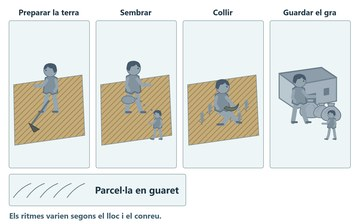
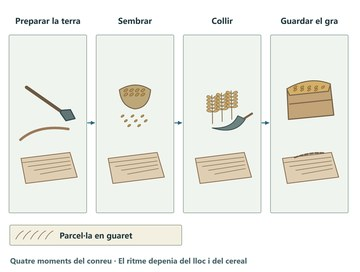
Revisa les il·lustracions M040 i M041 (v0.1.93)

diff --git a/docs/continguts/terra-i-mapes.js b/docs/continguts/terra-i-mapes.js
@@ -3038,36 +3038,57 @@ window.quaderns ??= [];
     coverFigure: 'paisatge-de-llogaret-i-moli',
     figures: [
       {
-        id: 'paisatge-de-llogaret-i-moli', section: 'conreus', name: 'Un llogaret i el seu entorn', ratio: 2280 / 1340,
+        id: 'paisatge-de-llogaret-i-moli', section: 'conreus', name: 'Un llogaret i el seu entorn', ratio: 2280 / 1640,
         width: 100, position: 'center', wrap: false, anchor: 'lead',
-        alt: 'Camins connecten les cases del llogaret amb els camps, les pastures i el molí d’aigua. Al fons hi ha una zona de bosc.',
-        caption: 'Cas esquemàtic d’un domini rural. Ressegueix com s’arriba del llogaret al camp o al molí. Què hi podria obtenir una família?',
-        credit: 'Dibuix didàctic de producció pròpia.',
         variants: {
-          pla: { src: 'illustracions/m040/paisatge-de-llogaret-i-moli-pla.png', thumbnail: 'illustracions/m040/miniatures/paisatge-de-llogaret-i-moli-pla.jpg' },
-          atles: { src: 'illustracions/m040/paisatge-de-llogaret-i-moli-atles.png', thumbnail: 'illustracions/m040/miniatures/paisatge-de-llogaret-i-moli-atles.jpg' },
+          pla: {
+            src: 'illustracions/m040/paisatge-de-llogaret-i-moli-pla.png', thumbnail: 'illustracions/m040/miniatures/paisatge-de-llogaret-i-moli-pla.jpg',
+            alt: 'Plànol amb un llogaret, un camp, pastures i bosc. En un encreuament se separen els camins cap al camp i el molí. El rec connecta el molí amb el riu.',
+            caption: 'Plànol d’un domini rural imaginari. Sortint del llogaret, en quin punt se separen els camins cap al camp i cap al molí?',
+            credit: 'Plànol propi fet a partir de la geometria que també s’utilitza a la vista elevada.',
+          },
+          atles: {
+            src: 'illustracions/m040/paisatge-de-llogaret-i-moli-atles.png', thumbnail: 'illustracions/m040/miniatures/paisatge-de-llogaret-i-moli-atles.jpg',
+            alt: 'Vista del mateix llogaret des d’un punt alt. El riu i el molí són al davant. Un rec es desvia cap al molí i l’aigua torna al riu. Més enllà hi ha el camp, les pastures i el bosc.',
+            caption: 'Vista del mateix domini rural imaginari. Segueix el rec des que se separa del riu fins que hi torna. Què permet fer l’aigua al molí?',
+            credit: 'Reconstrucció didàctica en tres dimensions. Circuit d’aigua inspirat en exemples de molins fariners hidràulics.',
+          },
         },
       },
       {
-        id: 'quatre-moments-del-cereal', section: 'produccio', name: 'Del conreu al graner', ratio: 2280 / 1420,
+        id: 'quatre-moments-del-cereal', section: 'produccio', name: 'Del conreu al graner', ratio: 2280 / 1720,
         width: 100, position: 'center', wrap: false, anchor: 'lead',
-        alt: 'Quatre vinyetes mostren treballar la terra, escampar llavors, collir i desar sacs de gra. Un requadre separat mostra una parcel·la en guaret.',
-        caption: 'Quatre moments de la feina amb el cereal. Els ritmes i les eines podien variar segons el conreu i el lloc. Una vinyeta mostra una parcel·la en guaret.',
-        credit: 'Dibuix didàctic de producció pròpia.',
         variants: {
-          pla: { src: 'illustracions/m040/quatre-moments-del-cereal-pla.png', thumbnail: 'illustracions/m040/miniatures/quatre-moments-del-cereal-pla.jpg' },
-          atles: { src: 'illustracions/m040/quatre-moments-del-cereal-atles.png', thumbnail: 'illustracions/m040/miniatures/quatre-moments-del-cereal-atles.jpg' },
+          pla: {
+            src: 'illustracions/m040/quatre-moments-del-cereal-pla.png', thumbnail: 'illustracions/m040/miniatures/quatre-moments-del-cereal-pla.jpg',
+            alt: 'Quatre passos amb les siluetes d’una aixada, un cabàs amb llavors, una falç amb espigues i una caixa de gra. Un requadre separat representa una parcel·la en guaret.',
+            caption: 'Seguiu la parcel·la i les eines en quatre moments del conreu. El guaret és un estat del camp. Els ritmes varien segons el lloc i el cereal.',
+            credit: 'Esquema didàctic de producció pròpia.',
+          },
+          atles: {
+            src: 'illustracions/m040/quatre-moments-del-cereal-atles.png', thumbnail: 'illustracions/m040/miniatures/quatre-moments-del-cereal-atles.jpg',
+            alt: 'Treball del sòl en un camp amb solcs, una mà sembrant, una falç que recull espigues i dues persones abocant gra net a la caixa d’un graner.',
+            caption: 'Reconstrucció de quatre moments del conreu. Entre collir i guardar el gra hi podia haver feines com batre i ventar. El ritme variava segons el lloc i el cereal.',
+            credit: 'Escenes didàctiques generades, amb els rètols afegits després.',
+          },
         },
       },
       {
-        id: 'renda-en-productes-diners-i-feina', section: 'dominis', name: 'Tres formes de complir una obligació', ratio: 1200 / 1120,
+        id: 'renda-en-productes-diners-i-feina', section: 'dominis', name: 'Tres formes de complir una obligació', ratio: 1200 / 1490,
         width: 50, position: 'right', wrap: true, anchor: 'after',
-        alt: 'La primera targeta mostra sacs de gra, la segona monedes i la tercera una persona que treballa el camp.',
-        caption: 'Tres exemples esquemàtics de renda. Les obligacions variaven segons el lloc i els acords.',
-        credit: 'Dibuix didàctic de producció pròpia.',
         variants: {
-          pla: { src: 'illustracions/m040/renda-en-productes-diners-i-feina-pla.png', thumbnail: 'illustracions/m040/miniatures/renda-en-productes-diners-i-feina-pla.jpg' },
-          atles: { src: 'illustracions/m040/renda-en-productes-diners-i-feina-atles.png', thumbnail: 'illustracions/m040/miniatures/renda-en-productes-diners-i-feina-atles.jpg' },
+          pla: {
+            src: 'illustracions/m040/renda-en-productes-diners-i-feina-pla.png', thumbnail: 'illustracions/m040/miniatures/renda-en-productes-diners-i-feina-pla.jpg',
+            alt: 'Tres files associen un sac de gra amb els productes, unes monedes amb els diners i una aixada amb la feina.',
+            caption: 'Tres prestacions possibles. Les obligacions variaven segons el lloc i els acords.',
+            credit: 'Esquema didàctic de producció pròpia.',
+          },
+          atles: {
+            src: 'illustracions/m040/renda-en-productes-diners-i-feina-atles.png', thumbnail: 'illustracions/m040/miniatures/renda-en-productes-diners-i-feina-atles.jpg',
+            alt: 'Tres primers plans mostren unes mans deixant gra en un recipient, un lliurament de monedes i una persona cavant amb una aixada.',
+            caption: 'Tres escenes reconstruïdes. Identifica què es lliura o què es fa en cada cas. Les obligacions variaven segons el lloc i els acords.',
+            credit: 'Primers plans didàctics generats. Les monedes són exemples gràfics.',
+          },
         },
       },
     ],
@@ -3093,12 +3114,13 @@ window.quaderns ??= [];
     collection: { id: 'medieval', title: 'L’edat mitjana' },
     theme: 'Història',
     figureStyles: [
-      { id: 'pla', label: 'Pla', description: 'Formes planes, traços nets i una paleta més gràfica.' },
-      { id: 'atles', label: 'Atles', description: 'Volum, textura i contrast de color.' },
+      { id: 'pla', label: 'Pla', description: 'Plànol de recorreguts, siluetes d’eines i registres de mostra.' },
+      { id: 'atles', label: 'Atles', description: 'Vista elevada del paisatge i primers plans de les feines i dels lliuraments.' },
     ],
     description: 'Interpreta l’organització d’un domini feudal, el treball de la pagesia i els usos de conreus i espais comuns.',
     curriculum: [{ row: 'medi:passat', section: 'dominis', note: 'Interpreta l’organització d’un domini feudal, el treball de la pagesia i els usos de conreus i espais comuns.' }],
     sources: [
+      ['Patrimoni Cultural · La mola hidràulica d’Aran', 'https://patrimoni.gencat.cat/ca/visitem-el-conjunt-de-la-mola-hidraulica-daran'],
       ['MHC · Edat mitjana', 'https://www.mhcat.cat/esmhc/consulta_la_coleccion/els_destacats_del_museu/els_destacats_del_museu/edat_mitjana'],
       ['MHC · La mar nostra', 'https://www.mhcat.cat/exposicions/la_memoria_d_un_pais/la_mar_nostra'],
     ],
@@ -3111,36 +3133,47 @@ window.quaderns ??= [];
     coverFigure: 'ports-i-fites-mediterranies',
     figures: [
       {
-        id: 'ports-i-fites-mediterranies', section: 'comerc', name: 'Ports, territoris i rutes', ratio: 2280 / 1590,
+        id: 'ports-i-fites-mediterranies', section: 'comerc', name: 'Ports, territoris i rutes', ratio: 2280 / 1555,
         width: 100, position: 'center', wrap: false, anchor: 'lead',
-        alt: 'Mapa de la Mediterrània amb punts de port, línies marítimes discontínues i cinc quadrats numerats que es relacionen amb una taula de dates.',
-        caption: 'Els traços discontinus mostren exemples de connexions marítimes. Els quadrats numerats remeten a fites polítiques de dates diferents.',
-        credit: 'Cartografia física Natural Earth i NOAA/NCEI ETOPO 2022. Fites segons el Museu d’Història de Catalunya i l’Atlas Nacional de España.',
+        alt: 'Mapa de la Mediterrània occidental i central amb sis noms de port o territori. Els cercles indiquen ports, els rombes numerats enllacen amb cinc dates i els traços discontinus són connexions marítimes.',
+        caption: 'Els traços discontinus indiquen exemples de connexions marítimes. Els rombes numerats remeten a fites de moments diferents. Busca la data d’una fita sense confondre-la amb un port o una ruta.',
+        credit: 'Costa actual de Natural Earth. Fites del Museu d’Història de Catalunya i de l’Atlas Nacional de España.',
+        src: 'illustracions/m041/ports-i-fites-mediterranies.png', thumbnail: 'illustracions/m041/miniatures/ports-i-fites-mediterranies.jpg',
+      },
+      {
+        id: 'treball-a-les-drassanes', section: 'drassanes', name: 'Una galera a les Drassanes', ratio: 2280 / 1640,
+        width: 100, position: 'center', wrap: false, anchor: 'lead',
         variants: {
-          pla: { src: 'illustracions/m041/ports-i-fites-mediterranies-pla.png', thumbnail: 'illustracions/m041/miniatures/ports-i-fites-mediterranies-pla.jpg' },
-          atles: { src: 'illustracions/m041/ports-i-fites-mediterranies-atles.png', thumbnail: 'illustracions/m041/miniatures/ports-i-fites-mediterranies-atles.jpg' },
+          pla: {
+            src: 'illustracions/m041/treball-a-les-drassanes-pla.png', thumbnail: 'illustracions/m041/miniatures/treball-a-les-drassanes-pla.jpg',
+            alt: 'Alçat llarg d’una galera sobre suports, dins una nau coberta. En una meitat hi ha taulons muntats i a l’altra queden les quadernes a la vista. Una línia indica l’eix del buc.',
+            caption: 'Alçat esquemàtic d’una galera en construcció. Compara la part recoberta de taulons amb les quadernes a la vista.',
+            credit: 'Dibuix didàctic inspirat en les Drassanes Reials. La posició de les peces és orientativa.',
+          },
+          atles: {
+            src: 'illustracions/m041/treball-a-les-drassanes-atles.png', thumbnail: 'illustracions/m041/miniatures/treball-a-les-drassanes-atles.jpg',
+            alt: 'Mirada des de dins la nau. A tocar hi ha les quadernes descobertes i el buc s’allarga fins al fons de la nau. Un artesà ajusta un tauló i un altre treballa la fusta a un cavallet.',
+            caption: 'Reconstrucció inspirada en les Drassanes Reials de Barcelona. Observa què fan els dos artesans i com treballen al mateix espai. El requadre indica la relació amb l’aigua.',
+            credit: 'Reconstrucció didàctica generada. Feines i posicions de les peces recreades a partir de referents del Museu Marítim de Barcelona.',
+          },
         },
       },
       {
-        id: 'treball-a-les-drassanes', section: 'drassanes', name: 'Una galera a les Drassanes', ratio: 2280 / 1470,
+        id: 'diposit-i-pagament-a-la-taula', section: 'taula', name: 'Deixar diners anotats i fer un pagament', ratio: 2280 / 1510,
         width: 100, position: 'center', wrap: false, anchor: 'lead',
-        alt: 'En una nau coberta amb arcs hi ha una galera de costat sobre suports, fusta i persones amb feines diferents. Un requadre situa la nau respecte de l’aigua.',
-        caption: 'Reconstrucció inspirada en les Drassanes Reials de Barcelona. Les persones, les peces i la situació respecte de l’aigua formen part de l’esquema didàctic.',
-        credit: 'Dibuix didàctic de producció pròpia.',
         variants: {
-          pla: { src: 'illustracions/m041/treball-a-les-drassanes-pla.png', thumbnail: 'illustracions/m041/miniatures/treball-a-les-drassanes-pla.jpg' },
-          atles: { src: 'illustracions/m041/treball-a-les-drassanes-atles.png', thumbnail: 'illustracions/m041/miniatures/treball-a-les-drassanes-atles.jpg' },
-        },
-      },
-      {
-        id: 'diposit-i-pagament-a-la-taula', section: 'taula', name: 'Deixar diners anotats i fer un pagament', ratio: 2280 / 1220,
-        width: 100, position: 'center', wrap: false, anchor: 'lead',
-        alt: 'Tres escenes mostren monedes dipositades, l’anotació en un llibre amb columnes i el pagament. Cada escena incorpora la mateixa marca de compte.',
-        caption: 'Seqüència didàctica de la Taula de Canvi. Una mateixa marca acompanya el dipòsit, l’anotació al llibre i el pagament posterior.',
-        credit: 'Dibuix didàctic de producció pròpia.',
-        variants: {
-          pla: { src: 'illustracions/m041/diposit-i-pagament-a-la-taula-pla.png', thumbnail: 'illustracions/m041/miniatures/diposit-i-pagament-a-la-taula-pla.jpg' },
-          atles: { src: 'illustracions/m041/diposit-i-pagament-a-la-taula-atles.png', thumbnail: 'illustracions/m041/miniatures/diposit-i-pagament-a-la-taula-atles.jpg' },
+          pla: {
+            src: 'illustracions/m041/diposit-i-pagament-a-la-taula-pla.png', thumbnail: 'illustracions/m041/miniatures/diposit-i-pagament-a-la-taula-pla.jpg',
+            alt: 'Tres vinyetes mostren monedes rebudes, un llibre de mostra amb les columnes Compte, Entrada i Sortida, i un pagament. Un rombe identifica el mateix compte en les tres vinyetes.',
+            caption: 'Segueix el Compte A des del dipòsit fins al pagament. La quadrícula fa de registre de mostra de l’entrada i la sortida.',
+            credit: 'Esquema didàctic de producció pròpia. El compte és inventat.',
+          },
+          atles: {
+            src: 'illustracions/m041/diposit-i-pagament-a-la-taula-atles.png', thumbnail: 'illustracions/m041/miniatures/diposit-i-pagament-a-la-taula-atles.jpg',
+            alt: 'Tres primers plans. Unes mans aboquen monedes d’una bossa, una persona escriu amb ploma en un llibre amb columnes i la mateixa màniga verda es veu quan fa el pagament.',
+            caption: 'Reconstrucció didàctica de la Taula de Canvi. Segueix el dipòsit, l’anotació i el pagament observant què fan les mans.',
+            credit: 'Escenes i monedes generades. El llibre és una recreació, i el Compte A és un exemple.',
+          },
         },
       },
     ],
@@ -3166,12 +3199,13 @@ window.quaderns ??= [];
     collection: { id: 'medieval', title: 'L’edat mitjana' },
     theme: 'Història',
     figureStyles: [
-      { id: 'pla', label: 'Pla', description: 'Formes planes, traços nets i una paleta més gràfica.' },
-      { id: 'atles', label: 'Atles', description: 'Volum, textura i contrast de color.' },
+      { id: 'pla', label: 'Pla', description: 'Alçat del buc i seqüència del dipòsit al pagament.' },
+      { id: 'atles', label: 'Atles', description: 'Perspectiva a peu de nau i primers plans del treball a la taula.' },
     ],
     description: 'Explica la formació i l’expansió mediterrània de la Corona d’Aragó i el paper de les Drassanes i la Taula de Canvi.',
     curriculum: [{ row: 'medi:passat', section: 'taula', note: 'Explica la formació i l’expansió mediterrània de la Corona d’Aragó i el paper de les Drassanes i la Taula de Canvi.' }],
     sources: [
+      ['Museu Marítim de Barcelona · La fusta de les galeres', 'https://www.mmb.cat/wp-content/uploads/2023/11/E26-protegit.pdf'],
       ['Museu d’Història de Catalunya · L’hegemonia catalana a la Mediterrània', 'https://www.mhcat.cat/exposicions/la_memoria_d_un_pais/la_mar_nostra/l_hegemonia_catalana_a_la_mediterrania'],
       ['IGN · Atlas Nacional de España, capítol 6', 'https://www.ign.es/web/resources/docs/IGNCnig/ANE/Capitulos/06_Referenciashistoricas.pdf'],
       ['Natural Earth · Vectors físics', 'https://www.naturalearthdata.com/downloads/10m-physical-vectors/'],

diff --git a/docs/index.html b/docs/index.html
@@ -7,17 +7,17 @@
   <title>Món a mà · Apunts i materials per explorar el medi</title>
   <link rel="icon" type="image/png" sizes="32x32" href="assets/favicon.png?v=0.1.4">
   <link rel="apple-touch-icon" href="assets/mon-a-ma.png?v=0.1.4">
-  <link rel="stylesheet" href="estils.css?v=0.1.92">
-  <script src="interficie.js?v=0.1.92" defer></script>
-  <script src="continguts/terra-i-mapes.js?v=0.1.92" defer></script>
-  <script src="continguts/variants-terra-i-mapes.js?v=0.1.92" defer></script>
-  <script src="continguts/temes-3r-cicle-2.js?v=0.1.92" defer></script>
-  <script src="imprimible.js?v=0.1.92" defer></script>
-  <script src="preferencies.js?v=0.1.92" defer></script>
-  <script src="continguts/curriculum.js?v=0.1.92" defer></script>
-  <script src="mapa-curricular.js?v=0.1.92" defer></script>
-  <script src="incidencies.js?v=0.1.92" defer></script>
-  <script src="app.js?v=0.1.92" defer></script>
+  <link rel="stylesheet" href="estils.css?v=0.1.93">
+  <script src="interficie.js?v=0.1.93" defer></script>
+  <script src="continguts/terra-i-mapes.js?v=0.1.93" defer></script>
+  <script src="continguts/variants-terra-i-mapes.js?v=0.1.93" defer></script>
+  <script src="continguts/temes-3r-cicle-2.js?v=0.1.93" defer></script>
+  <script src="imprimible.js?v=0.1.93" defer></script>
+  <script src="preferencies.js?v=0.1.93" defer></script>
+  <script src="continguts/curriculum.js?v=0.1.93" defer></script>
+  <script src="mapa-curricular.js?v=0.1.93" defer></script>
+  <script src="incidencies.js?v=0.1.93" defer></script>
+  <script src="app.js?v=0.1.93" defer></script>
 </head>
 <body>
   <a class="skip" href="#main">Ves al contingut</a>
@@ -328,7 +328,7 @@
         <button type="button" id="reset-user" title="Restableix els ajustos de totes les fitxes, les plantilles, les col·leccions i les imatges pròpies.">Restableix preferències</button>
         <span id="reset-user-status" role="status"></span>
         <a href="https://github.com/aaronFortuno/mon-a-ma/blob/main/license.md">MIT</a>
-        <button type="button" data-dialog="release" aria-haspopup="dialog" aria-label="v0.1.92 · Historial de versions">v0.1.92</button>
+        <button type="button" data-dialog="release" aria-haspopup="dialog" aria-label="v0.1.93 · Historial de versions">v0.1.93</button>
         <button type="button" data-dialog="about" aria-haspopup="dialog" aria-label="V4V · Sobre el projecte">V4V</button>
       </nav>
     </div>
@@ -339,6 +339,11 @@
       <form method="dialog"><button type="submit" class="icon-button" aria-label="Tanca" autofocus><svg viewBox="0 0 24 24" aria-hidden="true"><path d="m6 6 12 12M18 6 6 18"/></svg></button></form>
     </div>
     <div class="dialog-content">
+      <h3>v0.1.93</h3>
+      <ul>
+        <li>Revisa les il·lustracions de l’M040 amb un mateix llogaret en planta i en vista elevada, quatre feines del cereal i tres formes de renda.</li>
+        <li>Revisa les il·lustracions de l’M041 amb un mapa compartit, una vista de treball a les Drassanes i una seqüència de la Taula de Canvi.</li>
+      </ul>
       <h3>v0.1.92</h3>
       <ul><li>Renova els plànols de l’M003 amb un Pla i una vista obliqua del mateix barri, i manté un únic plànol exacte per a l’activitat d’escala.</li></ul>
       <h3>v0.1.91</h3>

diff --git a/docs/app.js b/docs/app.js
@@ -186,7 +186,7 @@
       const firstFigure = figures.find(figure => figure.id === chapter.coverFigure) ??
         figures.find(figure => figure.section === chapter.sections[0]?.id);
       const variant = firstFigure && figureVariants(topic, firstFigure).findLast(item => item.src);
-      const coverSrc = variant?.thumbnail ?? variant?.src ?? firstFigure?.src;
+      const coverSrc = variant?.thumbnail ?? variant?.src ?? firstFigure?.thumbnail ?? firstFigure?.src;
       const picture = node('div', coverSrc ? 'topic-cover' : 'topic-cover image-placeholder');
       picture.setAttribute('aria-hidden', 'true');
       if (coverSrc) {

diff --git a/CHANGELOG.md b/CHANGELOG.md
@@ -1,5 +1,10 @@
 # Historial de versions
 
+## 0.1.93 · 28 de novembre de 2026
+
+- Revisa les il·lustracions de l’M040 amb un mateix llogaret en planta i en vista elevada, quatre feines del cereal i tres formes de renda.
+- Revisa les il·lustracions de l’M041 amb un mapa compartit, una vista de treball a les Drassanes i una seqüència de la Taula de Canvi.
+
 ## 0.1.92 · 28 de novembre de 2026
 
 - Renova els plànols de l’M003 amb un Pla i una vista obliqua del mateix barri, i manté un únic plànol exacte per a l’activitat d’escala.
